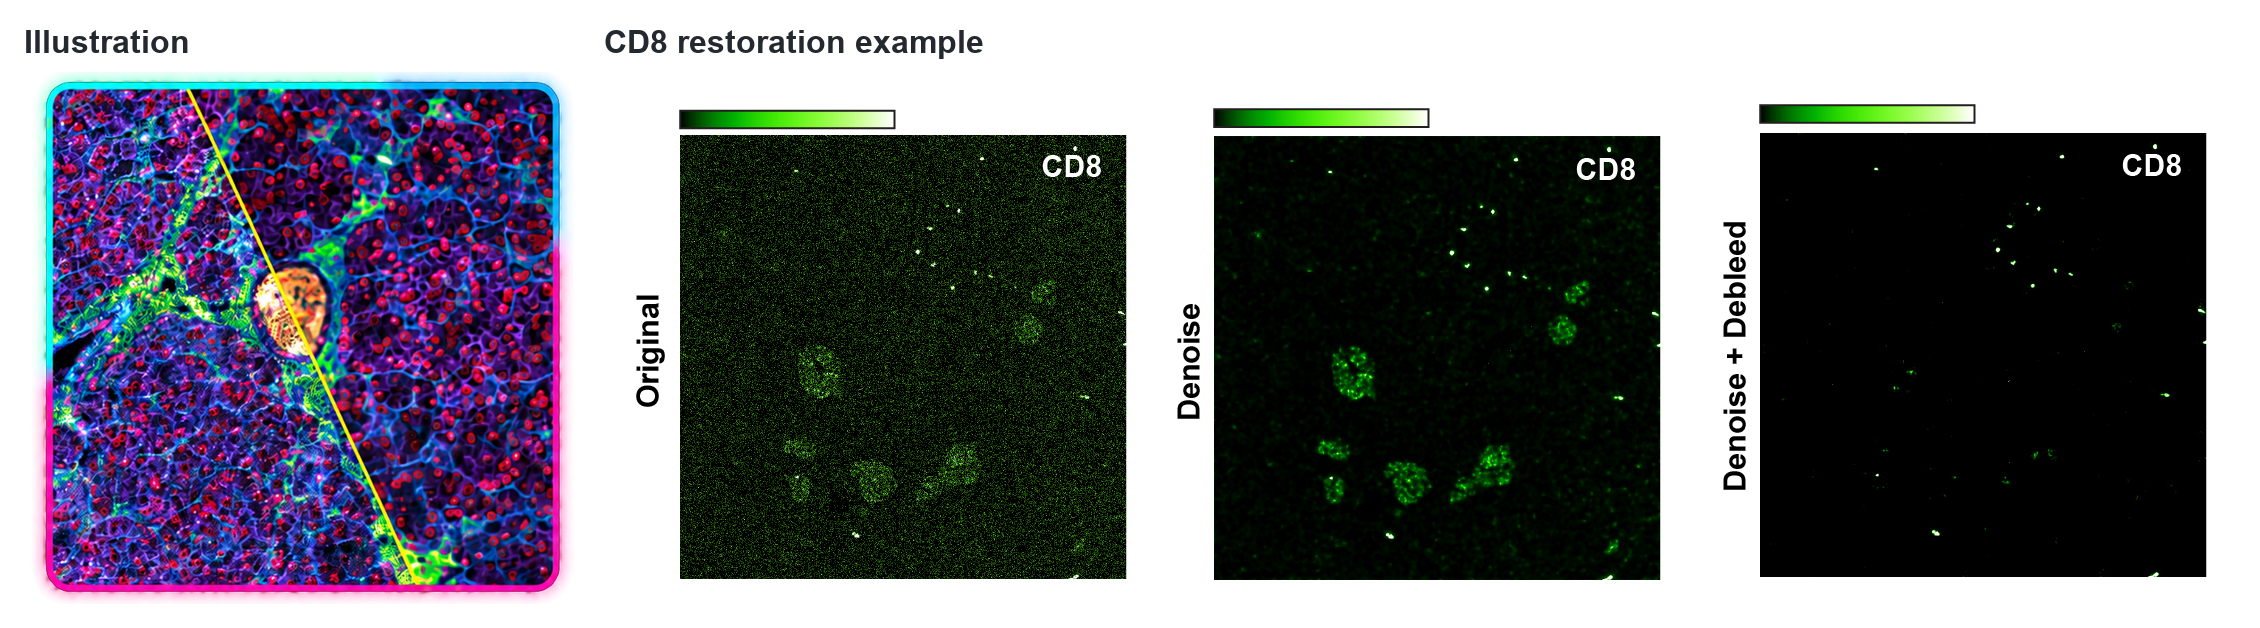
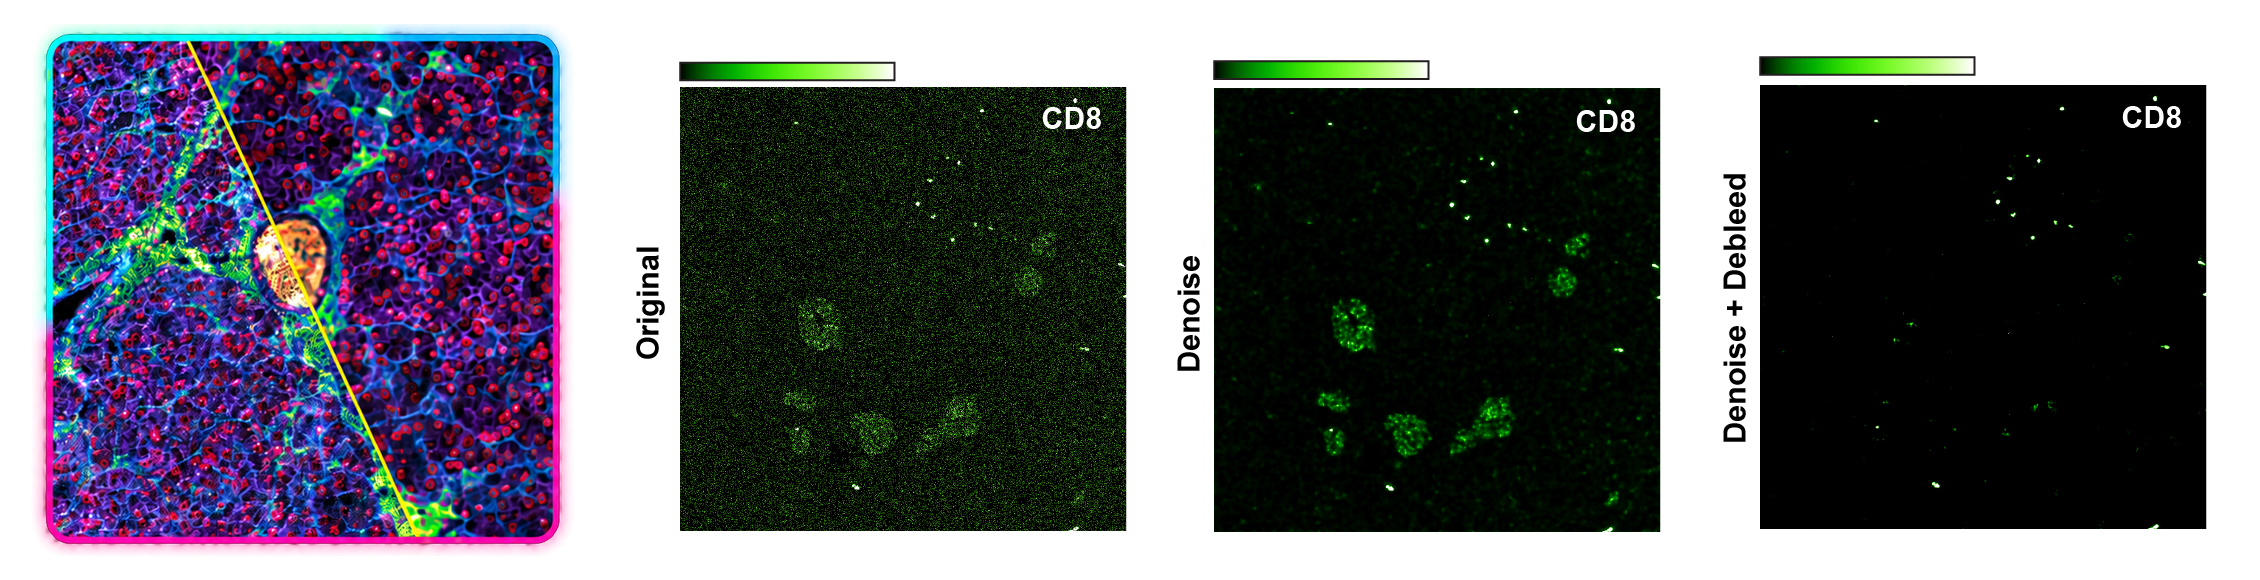
Remove overview headings and make the background transparent

diff --git a/README.md b/README.md
@@ -4,7 +4,12 @@ Highly multiplexed imaging techniques are widely used to study tissue architectu
 
 Unlike ordinary linear compensation, SpillOT does not simply subtract one channel globally from another. Instead, the user specifies which channels may be spilling into which target channels, and SpillOT removes signal only where its structural patch-similarity logic detects matching local image structure.
 
-[![SpillOT illustration alongside a CD8 restoration example: original, denoised, and denoised with spillover correction.](assets/spillot-overview.png)](assets/spillot-overview.png)
+<a href="assets/spillot-overview.png">
+  <picture>
+    <source media="(prefers-color-scheme: dark)" srcset="assets/spillot-overview-dark.png">
+    <img src="assets/spillot-overview.png" alt="SpillOT artwork beside the original CD8 image, denoised image, and image after denoising and spillover correction.">
+  </picture>
+</a>
 
 ## Contents
 
